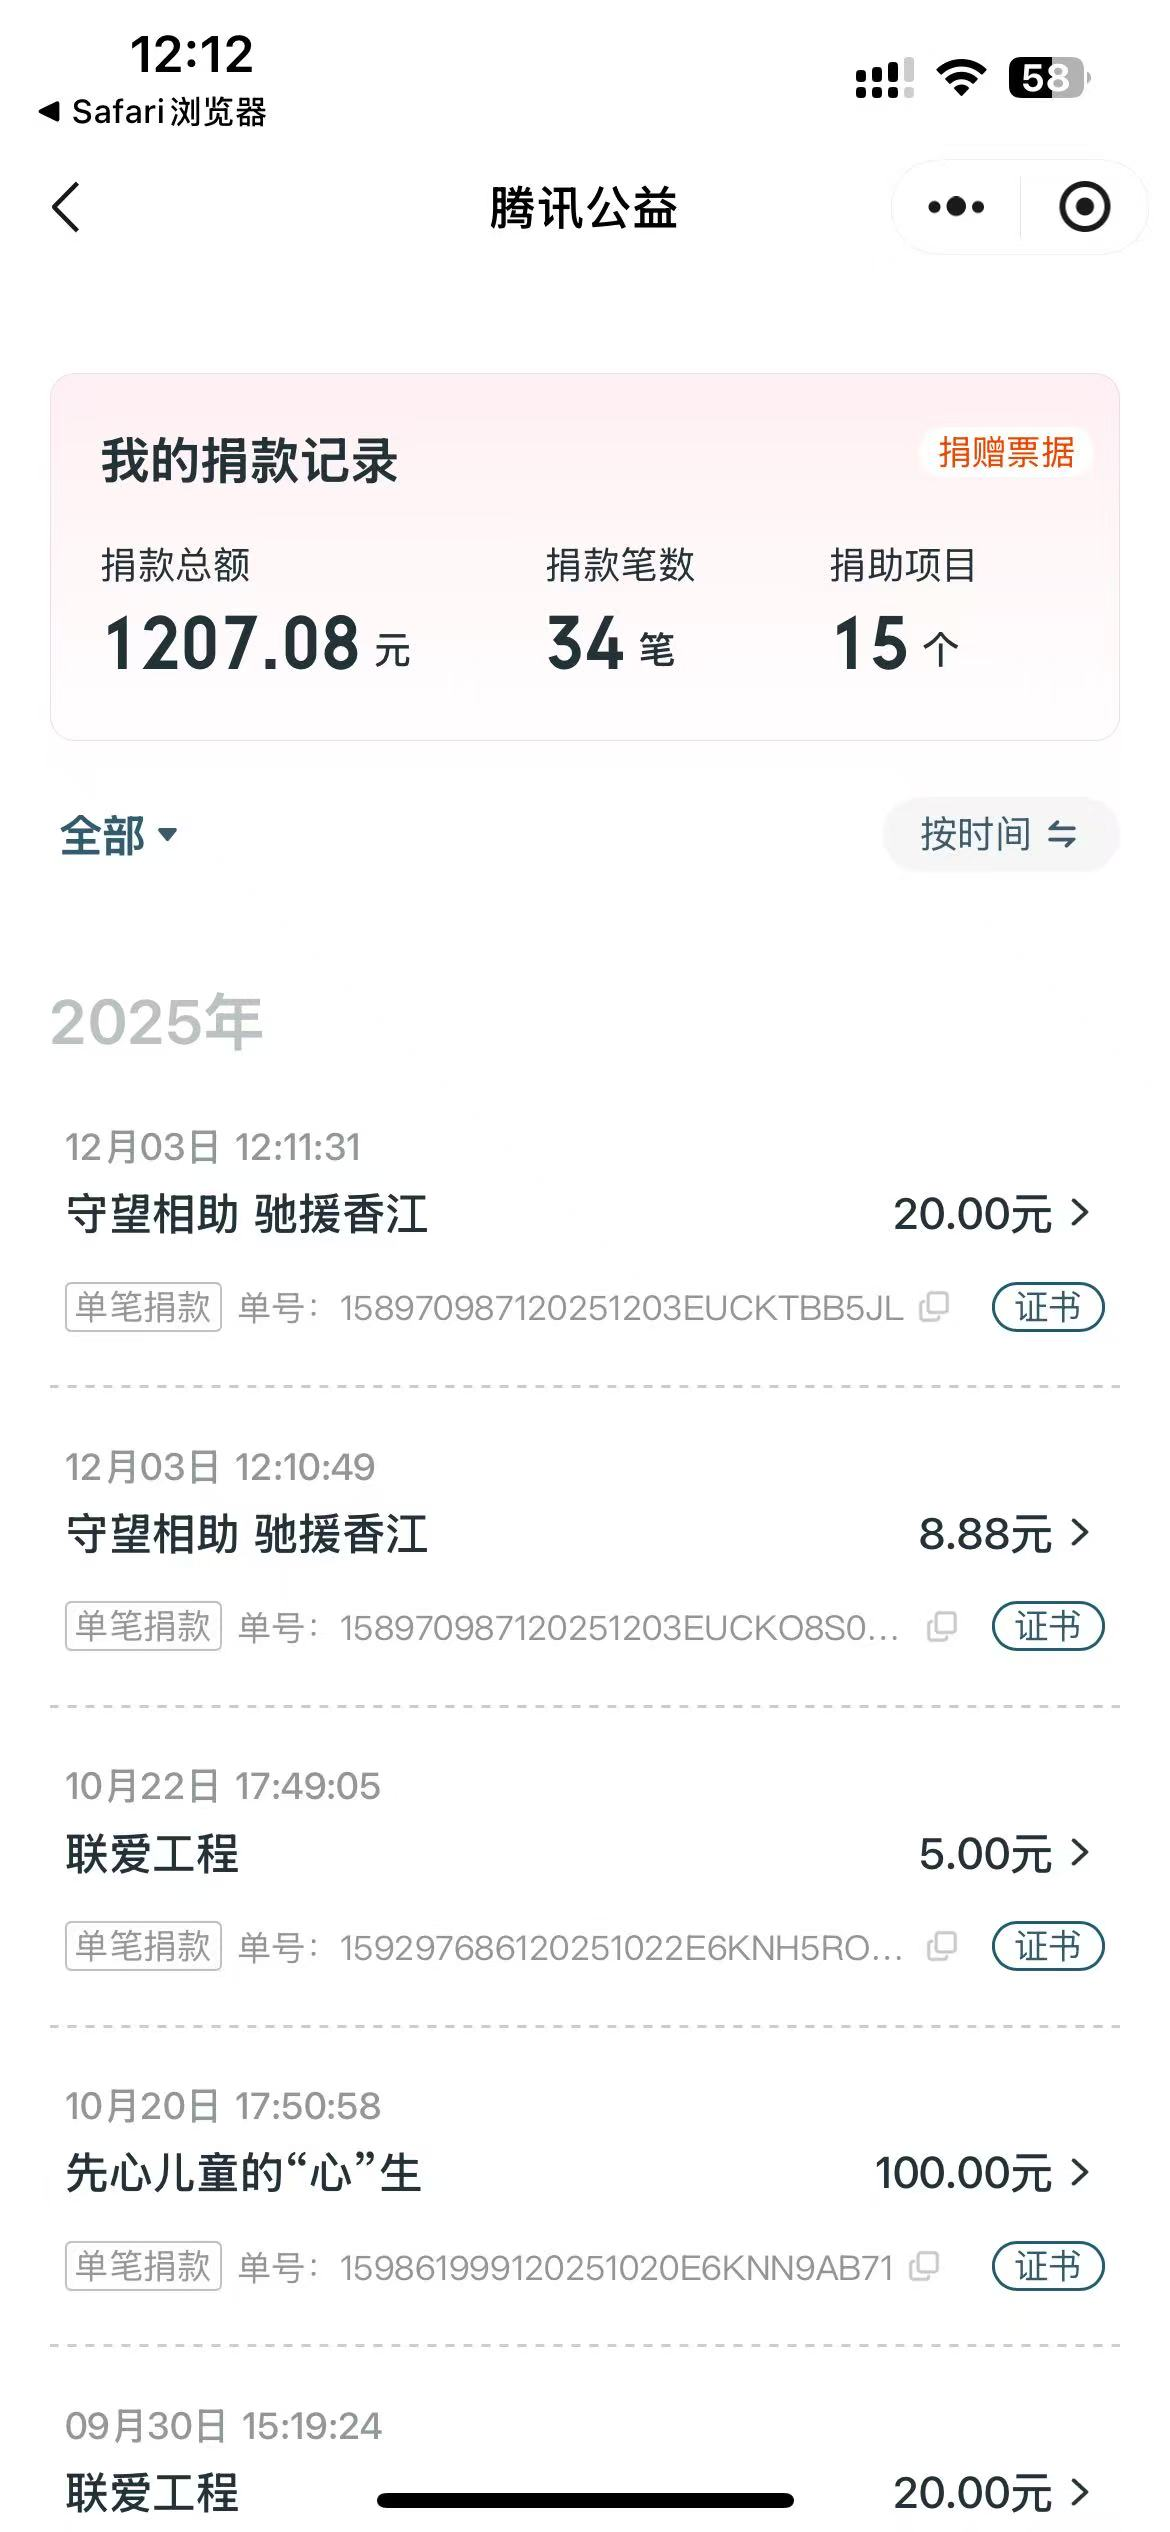
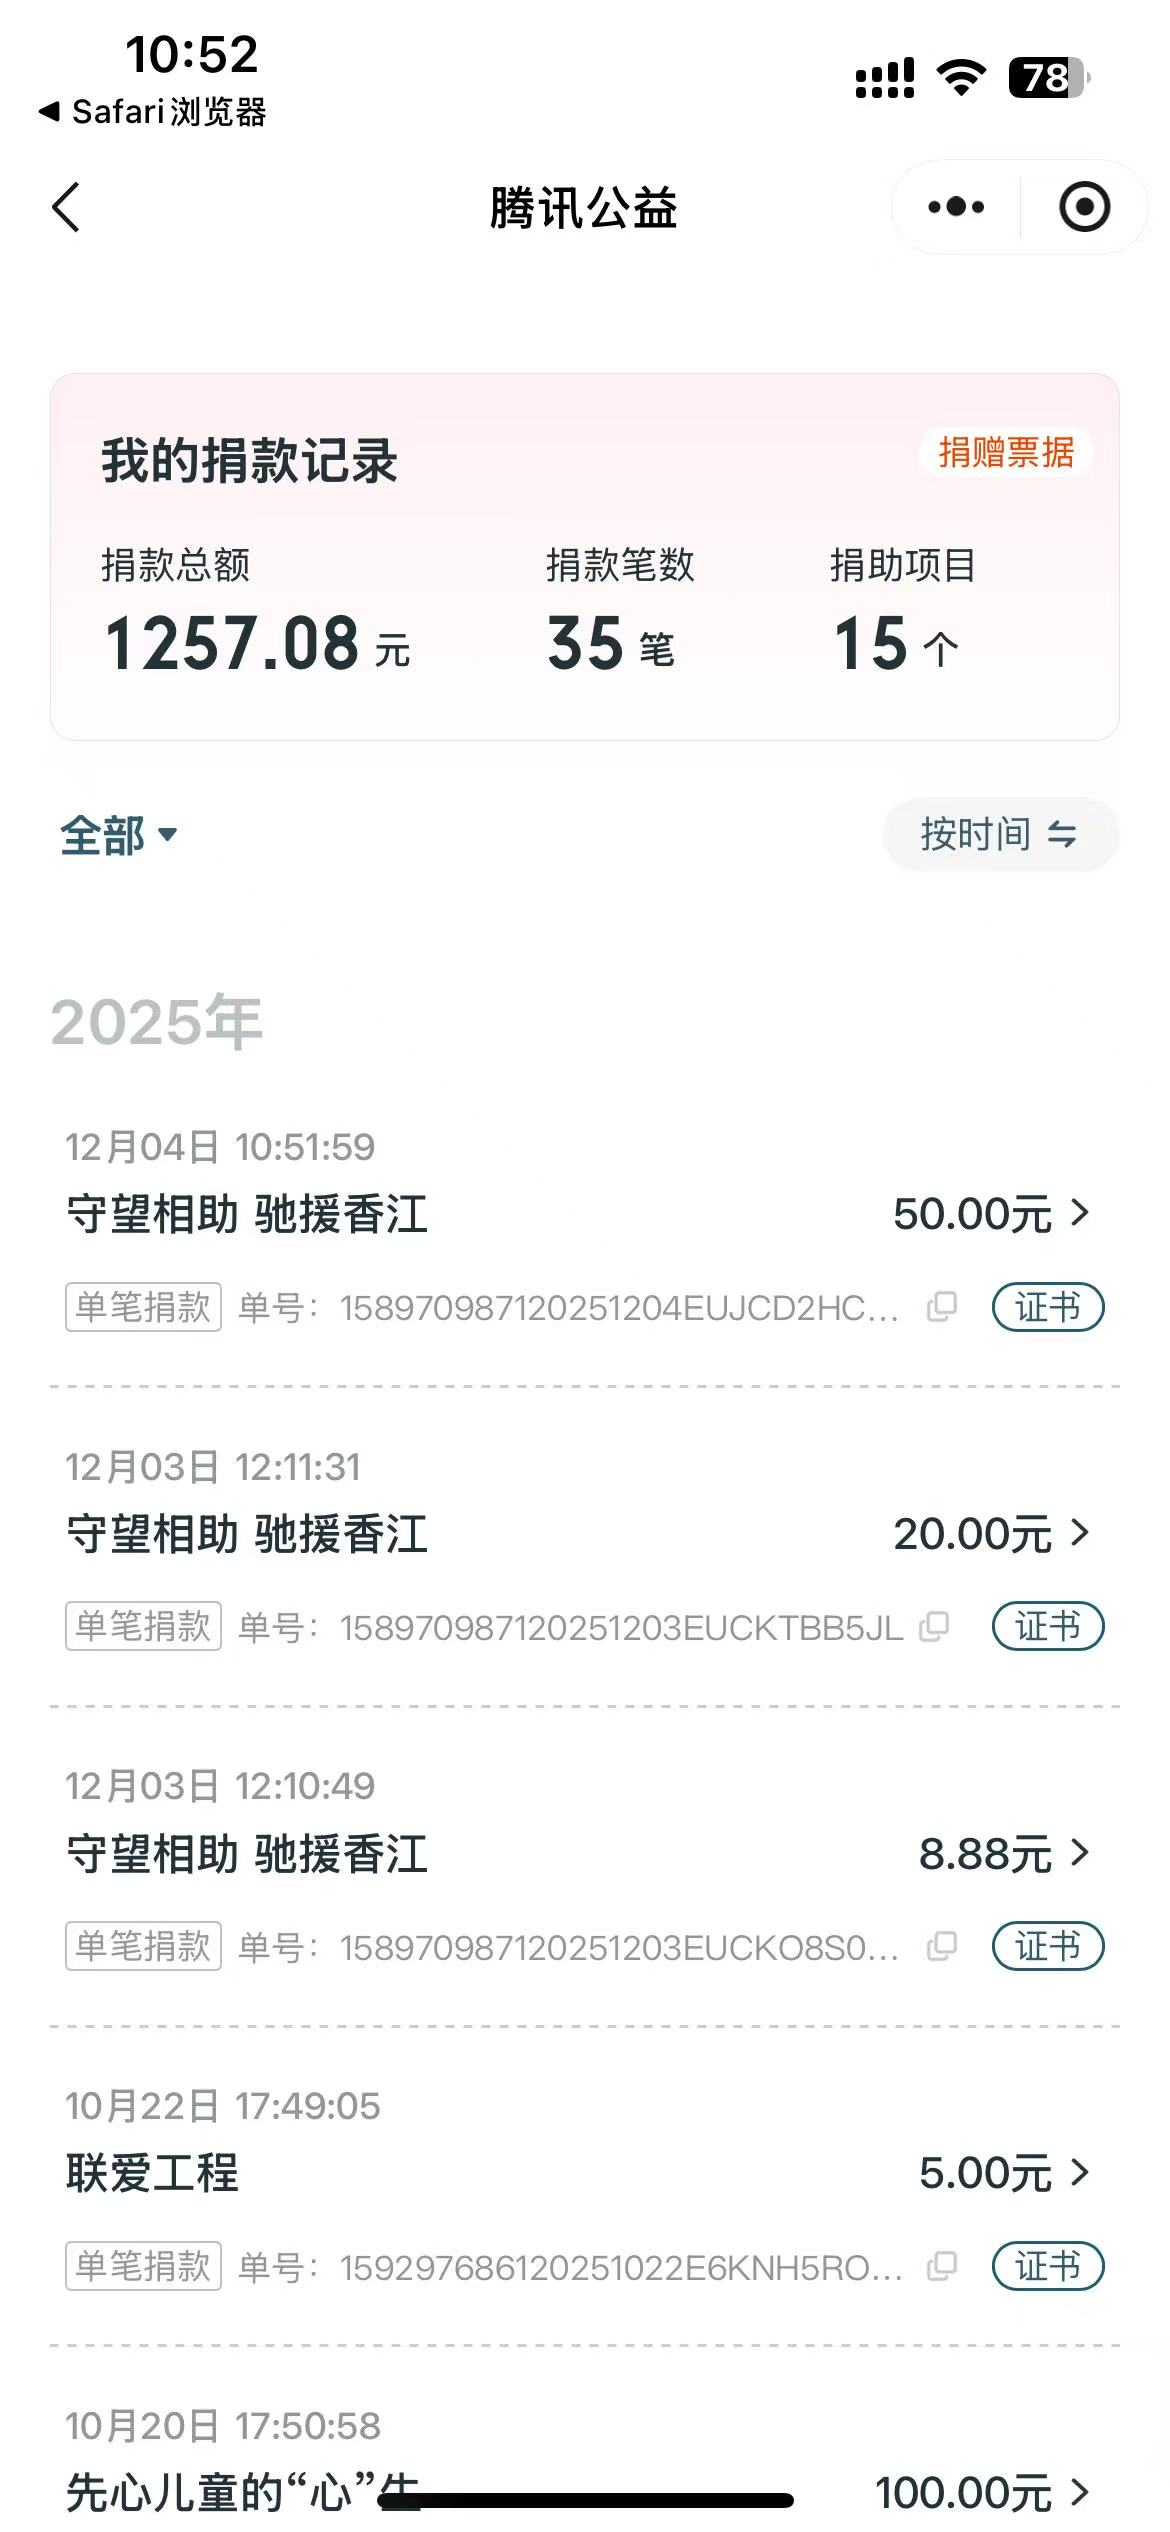
更新打赏

diff --git a/donate/index.html b/donate/index.html
@@ -49,6 +49,7 @@
     <img src="./159297686120251022E6KNH5RO4A.jpg">
     <img src="./158970987120251203EUCKO8S05G.jpg">
     <img src="./158970987120251203EUCKTBB5JL.jpg">
+    <img src="./158970987120251204EUJCD2HCW2.jpg">
 </body>
 
 </html>

diff --git a/README.md b/README.md
@@ -96,6 +96,7 @@
 | There            | 5   | 2025.10.22 | 
 | 人间宝藏！            | 8.88   | 2025.11.14 | 
 | SweetMilk            | 20   | 2025.12.03 | 
+| Spirit森源            | 50   | 2025.12.04 | 
 
 ### 关于打赏
 - 您的每一笔打赏，我都会原封不动以**您的名义**捐赠到腾讯公益。
